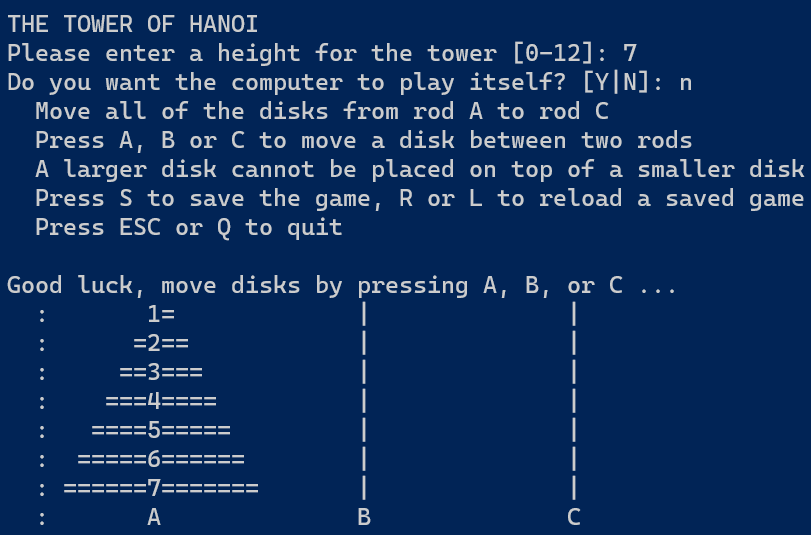
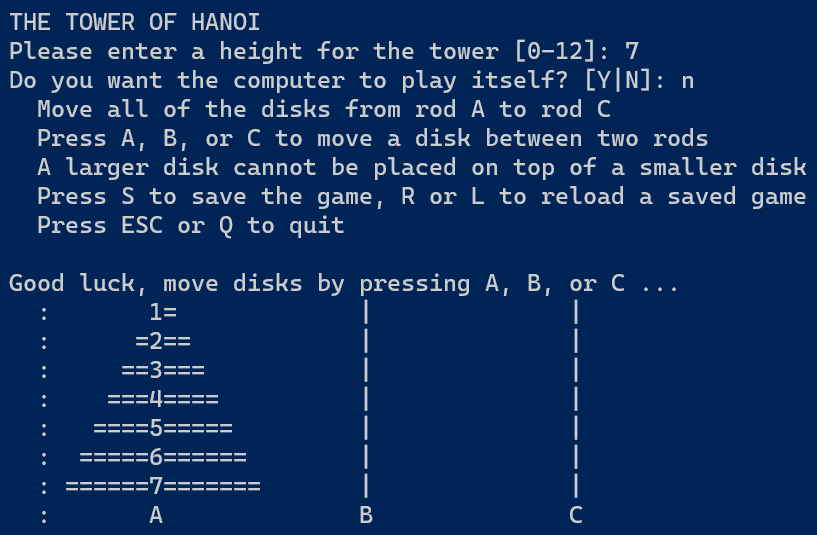
Add files via upload

diff --git a/hanoi_game.py b/hanoi_game.py
@@ -235,7 +235,7 @@ if __name__ == '__main__':
             solve = input('Do you want the computer to play itself? [Y|N]: ')
             solve = solve.lower()
         print('  Move all of the disks from rod A to rod C')
-        print('  Press A, B or C to move a disk between two rods')
+        print('  Press A, B, or C to move a disk between two rods')
         print('  A larger disk cannot be placed on top of a smaller disk')
         print('  Press S to save the game, R or L to reload a saved game')
         print('  Press ESC or Q to quit')
